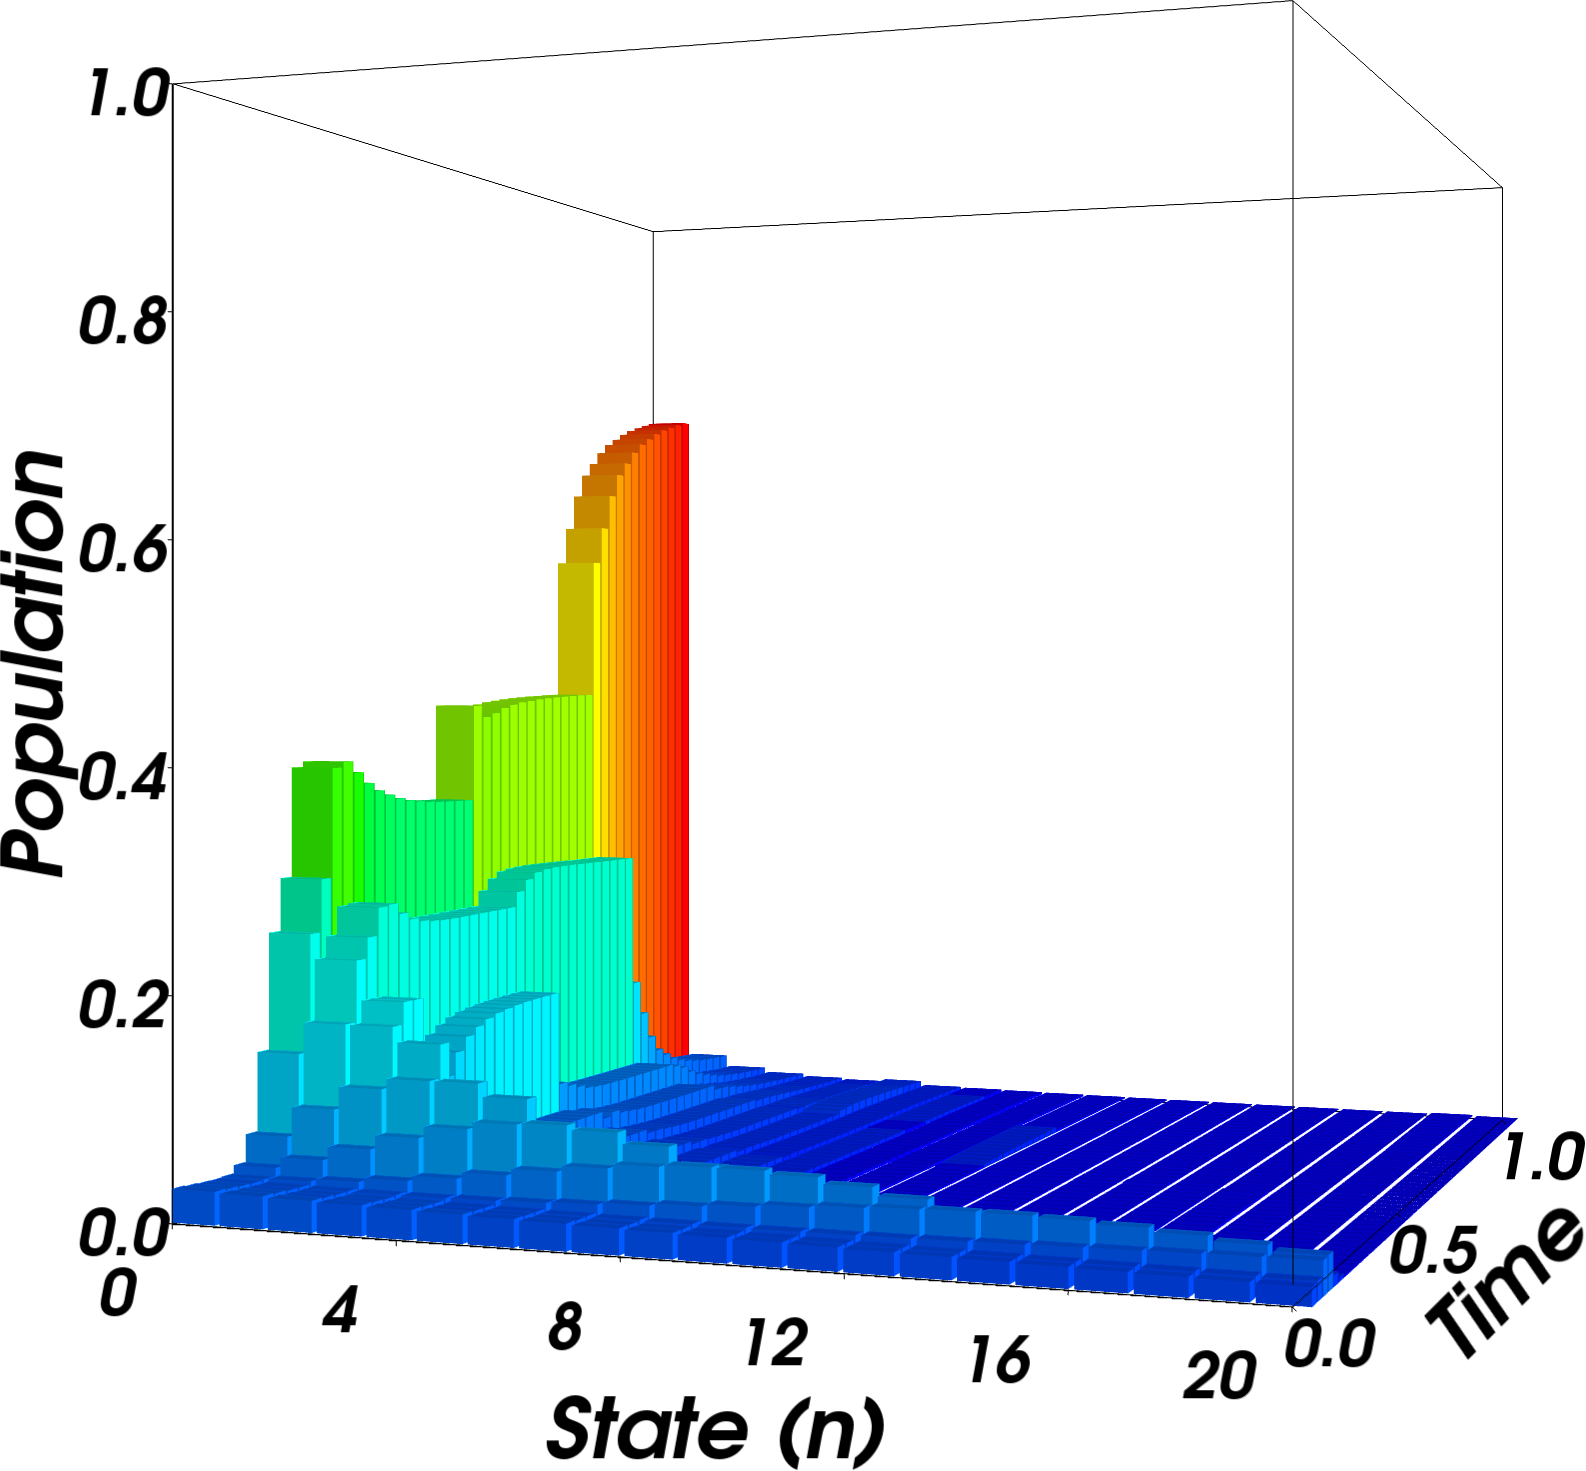
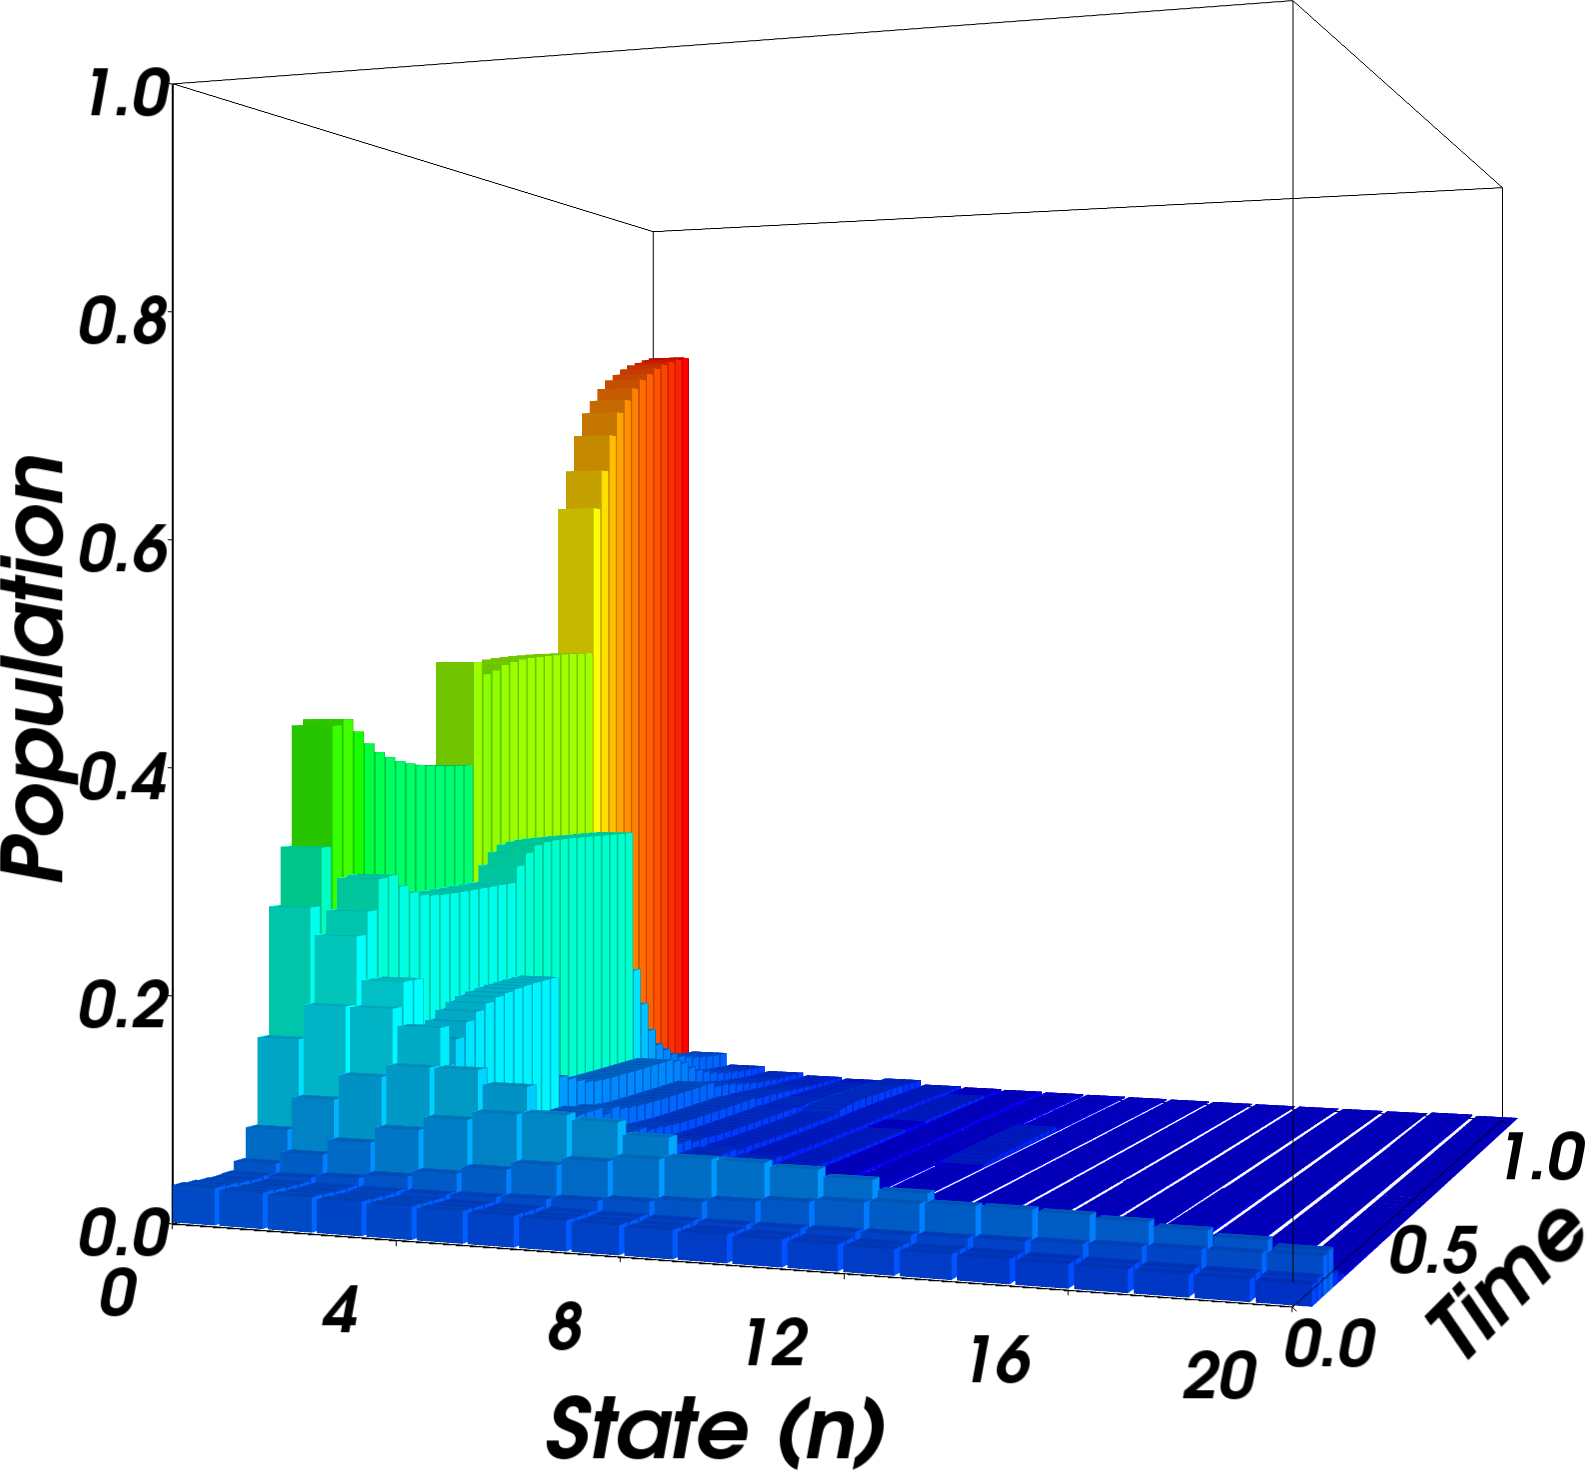
[3dplot] ...

diff --git a/test.py b/test.py
@@ -785,8 +785,8 @@ def main_plot4():
     ps = _load_jsons(names, 'ps')
     ns = _load_jsons(names, 'ns')
 
-    size = 100
-    t_size = 100
+    size = 20
+    t_size = 50
 
     fig = mlab.figure(bgcolor=(1, 1, 1), fgcolor=(0, 0, 0))
 
@@ -796,8 +796,10 @@ def main_plot4():
 
     P_all = array([(array(p[:len(p) // 2]) + p[len(p) // 2:]) for p in ps])
     P_fine = P_all[T_fine, N_fine]
+    # No idea what's wrong with the extent here ....
     surf = mlab.barchart(P_fine * size, colormap='blue-red',
-                         extent=[0, size, 0, size, 0, 1], figure=fig)
+                         extent=[0, size, 0, size, 0, 1 + 2. / size],
+                         figure=fig)
     # surf.module_manager.scalar_lut_manager.reverse_lut = True
 
     ax0 = new_axis(fig)
